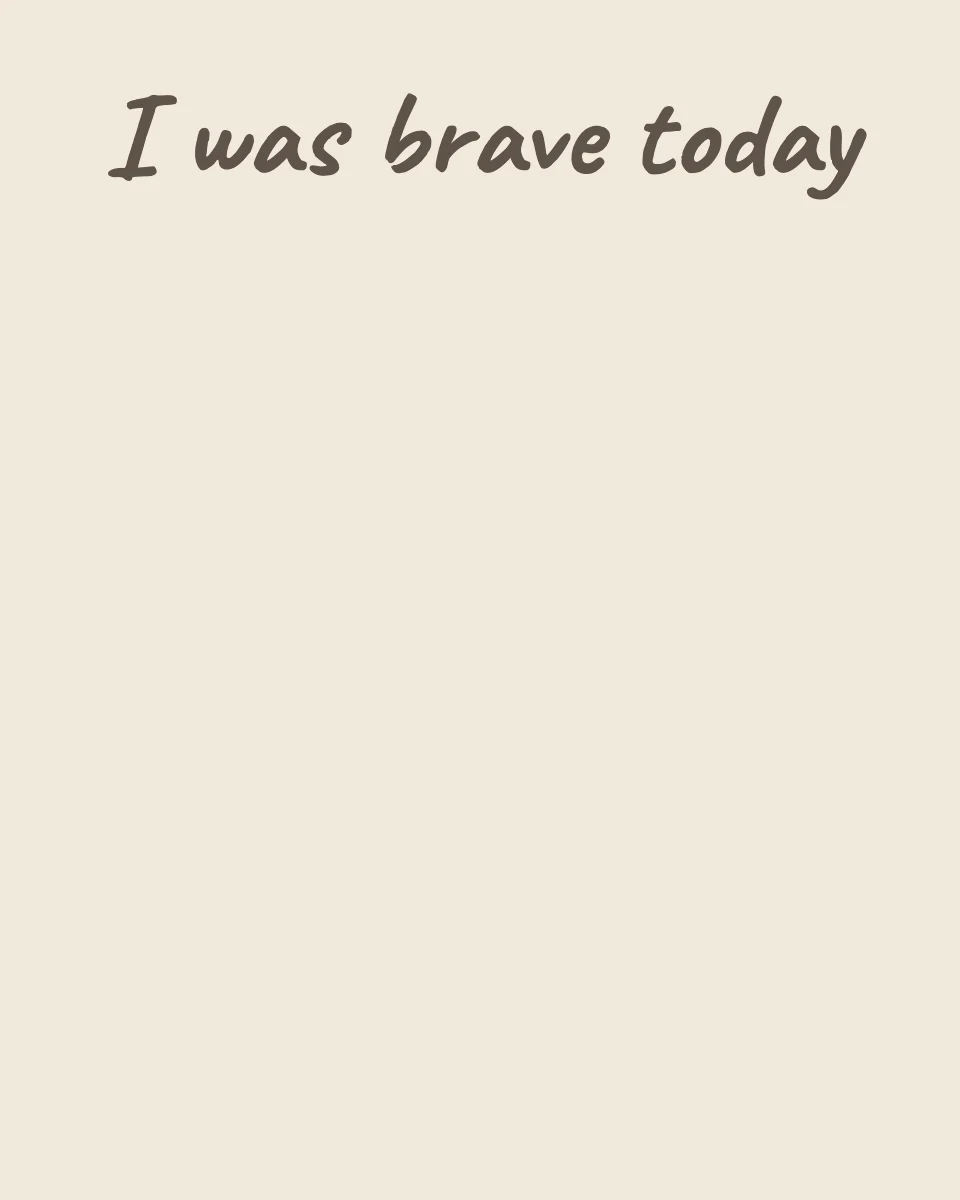
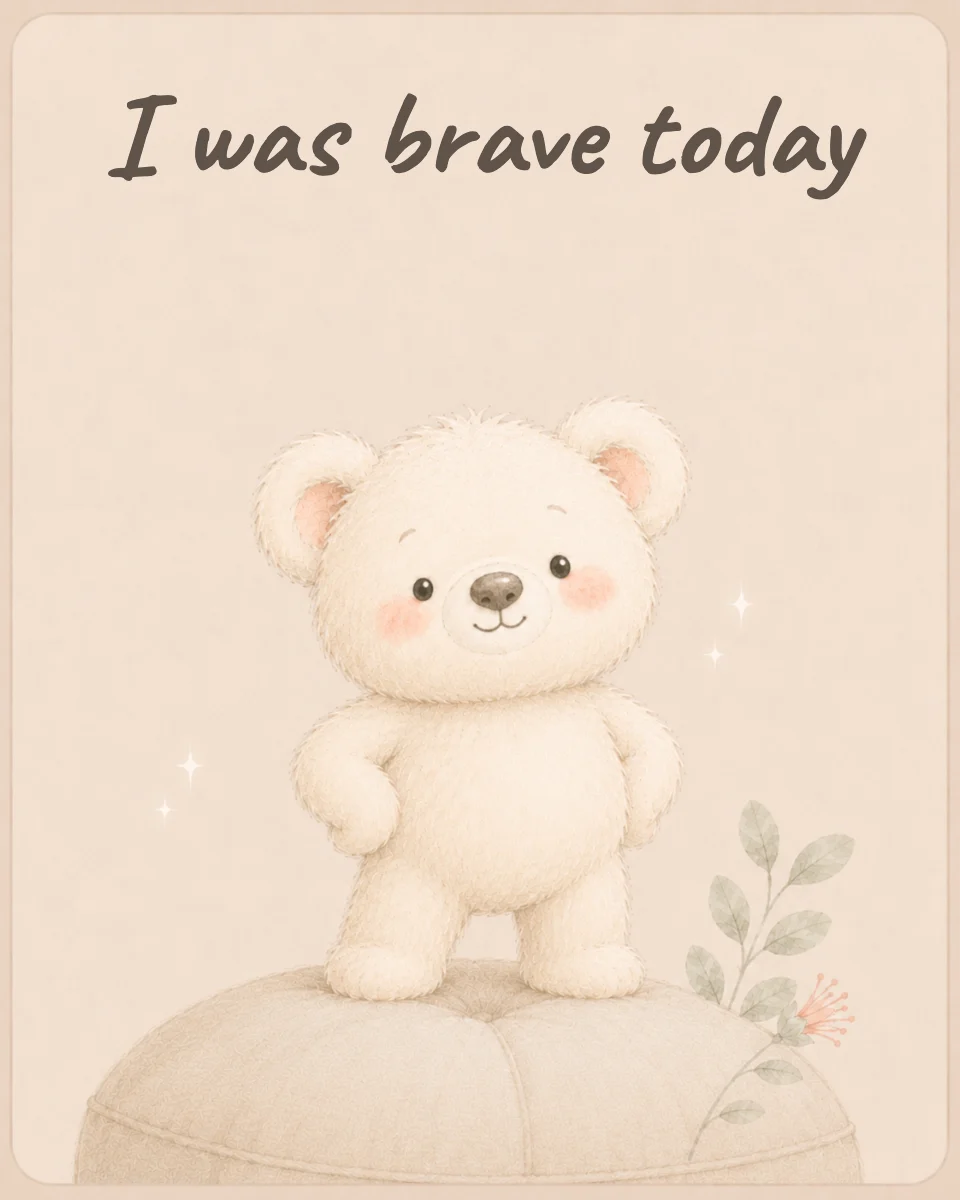
Moments art: batch C — Firsts COMPLETE (51/51) + the little loves
First fever · First medicine · First vaccine · I was brave today close
out the Firsts section entirely. Plus: My name is… · I love tummy time ·
story time · nap time · music · food. Order shifted in the re-download
(Chrome had swallowed 9) — caught by the content-verification sheet and
mapped correctly: the stray single was "My name is…", not fever.

diff --git a/app/sw.js b/app/sw.js
@@ -1,6 +1,6 @@
 /* Cubby service worker.
    Bump CACHE on every deploy so old assets are cleared. */
-const CACHE = 'little-log-v159';
+const CACHE = 'little-log-v160';
 const ASSETS = [
   '/app/',
   '/app/index.html',
